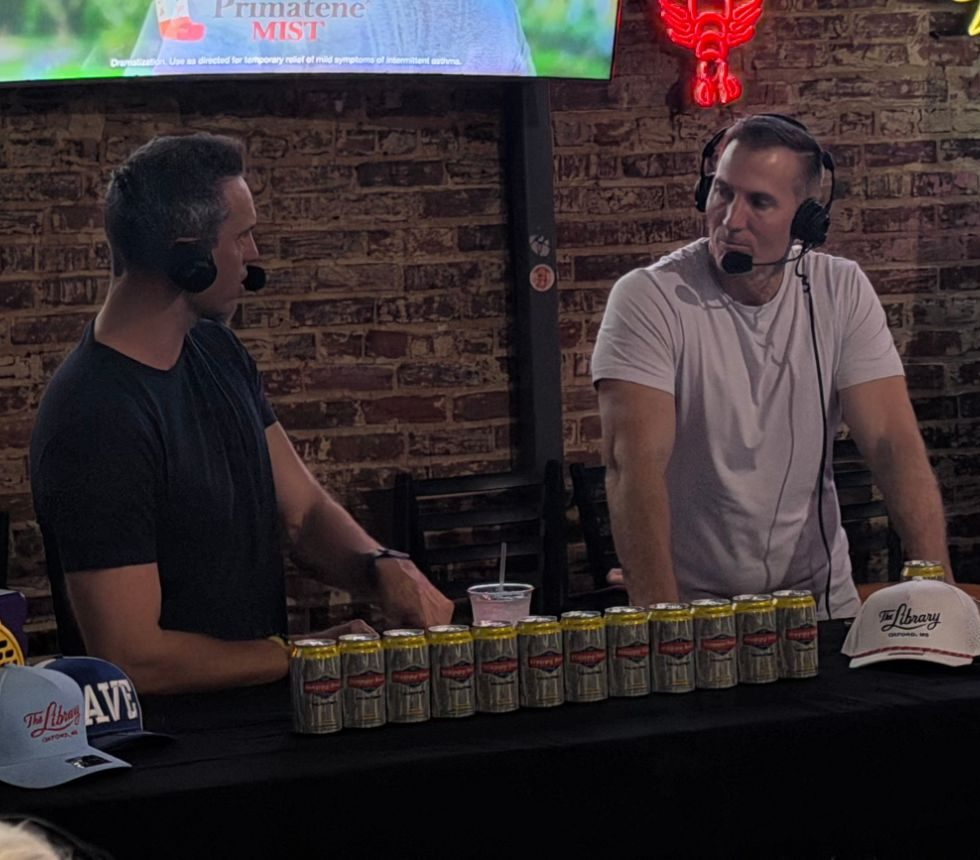
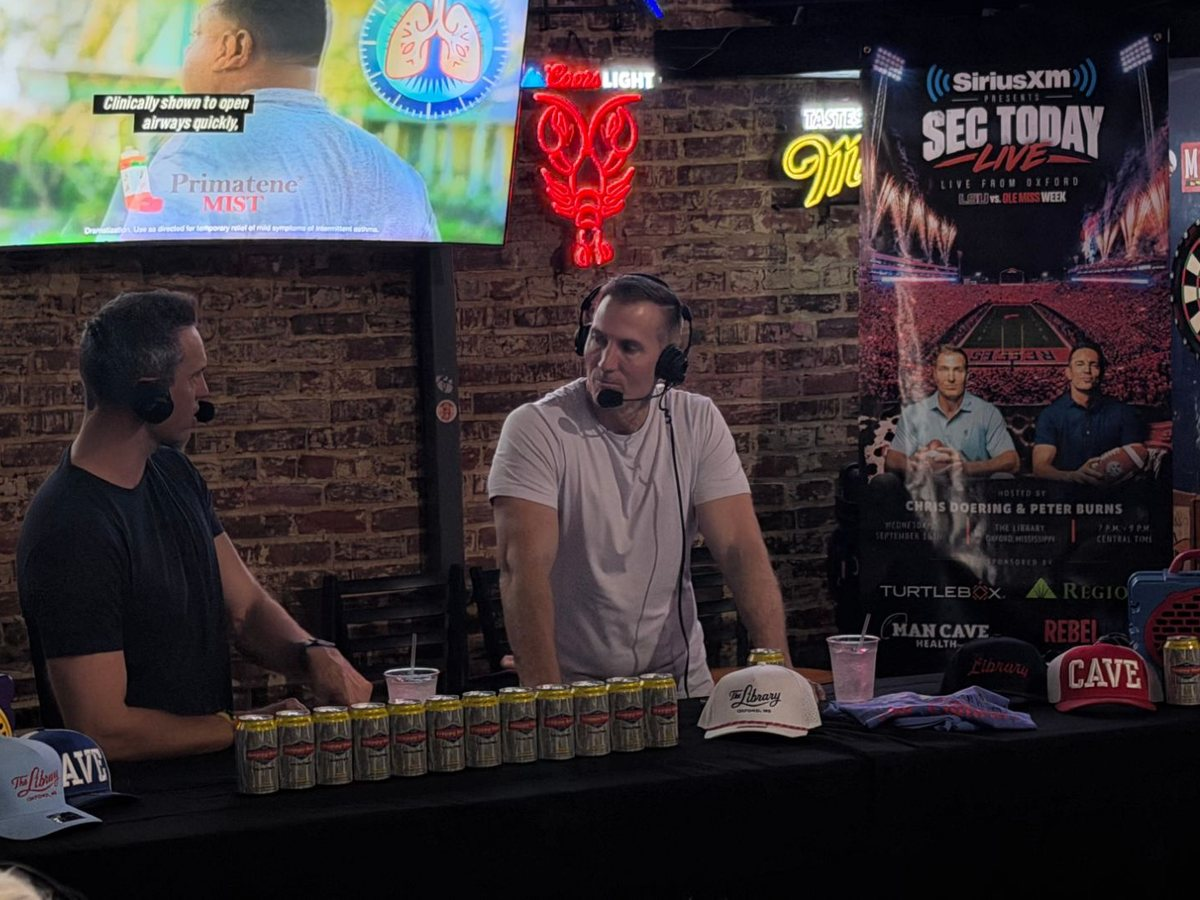
Add SEC Today Live case study page
New /sec-today-live page in the same format as the other case studies:
brief, full poster, annotated detail crops, and on-site photos. The home
card now links to it and shows the hosts with the banner behind them;
Treylor Park's next link continues to it.

Claude-Session: https://claude.ai/code/session_018gQ56oXUg9BHJd7x2b2u6z

diff --git a/sec-today-live.html b/sec-today-live.html
@@ -1,0 +1,83 @@
+<!DOCTYPE html>
+<html lang="en">
+<head>
+<meta charset="utf-8"><meta name="viewport" content="width=device-width,initial-scale=1">
+<title>SEC Today Live — Event Poster — Tyson Doering</title>
+<link href="https://fonts.googleapis.com/css2?family=Fraunces:opsz,wght@9..144,400;9..144,500;9..144,600;9..144,700&family=Work+Sans:wght@400;500;600;700&display=swap" rel="stylesheet">
+<link rel="stylesheet" href="styles.css">
+<link rel="stylesheet" href="transition.css">
+<style>
+.case-inner img.tall{max-width:min(440px,100%);margin:22px auto}
+.pair{display:grid;grid-template-columns:1fr 1fr;gap:16px;align-items:start}
+.pair img{margin:0;width:100%;aspect-ratio:3/4;object-fit:cover}
+.pair img.r{object-position:88% 50%}
+@media(max-width:760px){.pair{grid-template-columns:1fr}}
+</style>
+</head>
+<body>
+<header class="site" id="hdr"><div class="wrap">
+  <a class='logo' href='/'>Tyson Doering</a>
+  <nav class="top">
+    <a class='hide-m' href='/#work'>Work</a>
+    <a class='hide-m' href='/#about'>About</a>
+    <a class="pill dark" href="mailto:tdoe28711@gmail.com">Email me</a>
+  </nav>
+</div></header>
+<article class="case">
+  <div class="case-inner">
+    <a class='crumb' href='/#work'>← All work</a>
+    <div style="margin-top:24px"><span class="kicker">Poster Design · Large-Format Print</span></div>
+    <h1>SEC Today Live — Event Poster for ESPN's SEC Network</h1>
+<p><strong>Role: Designer</strong> · Solo project, concept through print-ready file · 2026<br>
+Client: <em>SEC Today Live</em>, an SEC Network show on SiriusXM</p>
+<p><img alt="Hosts Chris Doering and Peter Burns broadcasting live in front of the SEC Today Live banner" src="images/sec/hosts-live.jpg" /></p>
+
+<h2>Overview</h2>
+<p><em>SEC Today Live</em> is an SEC Network show carried on SiriusXM radio. For LSU vs. Ole Miss week it broadcast live from The Library in Oxford, Mississippi, hosted by Chris Doering and Peter Burns. I designed the poster that promoted the event. It was printed as full-height banners that stood at the entrance and framed the set during the show.</p>
+
+<h2>The brief</h2>
+<p>One vertical layout had to carry a lot of information and still read from across a crowded bar:</p>
+<ul>
+<li>The show, the network, and the "Live from Oxford" hook</li>
+<li>The LSU vs. Ole Miss matchup</li>
+<li>Both hosts</li>
+<li>Date, venue, and time</li>
+<li>Six sponsors: Turtlebox, Regions, Man Cave Health, Rebel Rags, Happy Dad, and Realtree</li>
+</ul>
+
+<h2>The final poster</h2>
+<p><a href="images/sec/poster-full.jpg" target="_blank" rel="noopener"><img class="tall" alt="Full SEC Today Live poster" src="images/sec/poster.jpg" /></a></p>
+
+<h2>Design decisions</h2>
+<p><strong>Game-night scale.</strong> The poster opens on a packed stadium at night, with floodlights and fireworks bursting from both sides. It makes a two-hour radio show feel like a gameday event.</p>
+<p><img alt="Poster header: SiriusXM presents SEC Today Live, Live from Oxford, LSU vs. Ole Miss week" src="images/sec/detail-title.jpg" /></p>
+<p><strong>A clear reading order.</strong> Network, then show title, then location, then matchup. The brush-script "Live" in red breaks up the heavy title type and carries the energy of the broadcast. The matchup line uses each school's own colors.</p>
+<p><img alt="Poster middle: the hosts on a leather couch holding footballs, with the event details below" src="images/sec/detail-hosts.jpg" /></p>
+<p><strong>Hosts front and center.</strong> Chris and Peter sit on a leather couch in front of the stadium, footballs in hand, so the poster feels like being invited to watch the game with them. Right below, a divided info bar gives the date, venue, and time a quick three-part scan.</p>
+<p><img alt="Poster bottom: sponsor logos for Turtlebox, Regions, Man Cave Health, Rebel Rags, Happy Dad, and Realtree" src="images/sec/detail-sponsors.jpg" /></p>
+<p><strong>Six sponsors, one system.</strong> Each logo keeps its own brand colors, arranged in a balanced two-column grid on a dark field so none of them fights the rest of the poster. Red pom-poms at the bottom corners bring back the crowd energy from the top.</p>
+
+<h2>In the room</h2>
+<p>The banners were printed full-height and used on-site at The Library during the live broadcast: one at the entrance and one framing the hosts' set.</p>
+<div class="pair">
+<img alt="The printed banner at the entrance of The Library" src="images/sec/banner-in-venue.jpg" />
+<img alt="The banner framing the hosts' set during the live broadcast" src="images/sec/on-air.jpg" class="r" />
+</div>
+
+<h2>My role</h2>
+<p>I designed the entire poster myself, from concept and layout to the final print-ready file.</p>
+  </div>
+  <div class="case-next"><a href='/unipal'>Next case study: Uni-Pal →</a></div>
+</article>
+<div class="wrap"><div class="cta-card">
+  <h2>Questions about this work?</h2>
+  <p>I'm happy to walk through the decisions, the data, and what I'd do differently.</p>
+  <a class="pill dark" href="mailto:tdoe28711@gmail.com">Email me</a>
+</div></div>
+<footer class="site"><div class="wrap"><span>© 2026 Tyson Doering</span><span>Savannah, GA</span></div></footer>
+<script>
+const h=document.getElementById('hdr');
+addEventListener('scroll',()=>h.classList.toggle('scrolled',scrollY>10),{passive:true});
+</script>
+<script src="transition.js"></script>
+</body></html>

diff --git a/index.html b/index.html
@@ -68,10 +68,6 @@ h1 .hl{color:var(--uni)}
 .p2{background:var(--nest);color:var(--nest-t)}
 .p3{background:var(--tp);color:var(--tp-t)}
 .p4{background:var(--sec);color:var(--sec-t)}
-.duo{display:grid;grid-template-columns:.31fr .69fr;gap:10px;padding:10px}
-.duo img{width:100%;height:100%;object-fit:cover;border-radius:6px}
-.duo img.poster{object-fit:contain;background:#0B0F1E}
-.duo img.live{object-position:50% 40%}
 .panel .grid{display:grid;grid-template-columns:1fr .88fr;gap:46px;align-items:center}
 .panel .tag{font-family:'Work Sans',sans-serif;font-size:11px;font-weight:500;letter-spacing:.13em;text-transform:uppercase;opacity:.72;margin-bottom:24px}
 .panel h3{font-family:'Fraunces',serif;font-weight:600;font-size:clamp(25px,3.5vw,46px);line-height:1.05;letter-spacing:-.022em;max-width:17ch}
@@ -191,7 +187,7 @@ footer{padding:44px 0 60px;display:flex;justify-content:space-between;font-famil
 
 <section class="sec-head rev" id="work">
   <h2>Featured work</h2>
-  <span class="mono">Four projects</span>
+  <span class="mono">Four case studies</span>
 </section>
 
 <div class="panels">
@@ -247,7 +243,7 @@ footer{padding:44px 0 60px;display:flex;justify-content:space-between;font-famil
     </div>
   </a>
 
-  <a class='panel p4 rev' href='images/sec/poster-full.jpg' target='_blank' rel='noopener'>
+  <a class='panel p4 rev' href='/sec-today-live'>
     <div class="grid">
       <div>
         <p class="tag">SEC Today Live — poster design, 2026</p>
@@ -258,12 +254,9 @@ footer{padding:44px 0 60px;display:flex;justify-content:space-between;font-famil
           <span class="chip">Large-format print</span>
           <span class="chip">Six sponsors</span>
         </div>
-        <span class="go">View full poster <i>&rarr;</i></span>
+        <span class="go">View case study <i>&rarr;</i></span>
       </div>
-      <div class="shot duo">
-        <img class="poster" src="images/sec/poster.jpg" alt="SEC Today Live poster: stadium with fireworks, hosts holding footballs, event details and sponsor logos" loading="lazy">
-        <img class="live" src="images/sec/hosts-live.jpg" alt="Hosts Chris Doering and Peter Burns broadcasting live beside the printed banner at The Library, Oxford" loading="lazy">
-      </div>
+      <div class="shot"><img src="images/sec/hosts-live.jpg" alt="Hosts Chris Doering and Peter Burns broadcasting live in front of the SEC Today Live banner" loading="lazy"></div>
     </div>
   </a>
 

diff --git a/treylor-park.html b/treylor-park.html
@@ -62,7 +62,7 @@ Client: Treylor Park Pizza Party, Savannah, GA</p>
 <h2>Reflection</h2>
 <p>This project is where audience research met pure craft: every visual choice — the 80s palette, the airstream, the local-first tone — traces back to something we heard from Savannah locals or the owner's own story. It's the same discipline I use in UX work, pointed at a brand instead of an interface.</p>
   </div>
-  <div class="case-next"><a href='/unipal'>Next case study: Uni-Pal →</a></div>
+  <div class="case-next"><a href='/sec-today-live'>Next case study: SEC Today Live →</a></div>
 </article>
 <div class="wrap"><div class="cta-card">
   <h2>Questions about this work?</h2>

diff --git a/README.md b/README.md
@@ -10,6 +10,7 @@ Plain static site: no build step, no framework.
 | `unipal.html` | Uni-Pal case study (`/unipal`) |
 | `nest.html` | Nest Thermostat case study (`/nest`) |
 | `treylor-park.html` | Treylor Park Pizza Party case study (`/treylor-park`) |
+| `sec-today-live.html` | SEC Today Live poster case study (`/sec-today-live`) |
 | `styles.css` | Shared styles (Fraunces + Work Sans from Google Fonts) |
 | `transition.css`, `transition.js` | Page fade transition between pages |
 | `images/` | Headshot and per-project images |
